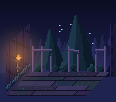
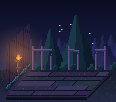
Balcony forest: ground around deck (no floating), deck thickness, right edge trunk line removed
Claude-Session: https://claude.ai/code/session_01FPZSaKiVNU2zED737yZX4w

diff --git a/tools/render_balcony_forest.py b/tools/render_balcony_forest.py
@@ -42,8 +42,6 @@ def main():
     for _ in range(12):                                                    # 덤불(울타리 뒤)
         cx = rng.randrange(int(X0 + SK * D), CW); cy = int(by) - rng.randrange(1, 7)
         leafy(lambda x, y, c: put(x, y, c) if y < by else None, cx, cy, rng.randrange(4, 7), rng, (12, 26, 38), (20, 44, 54), (32, 66, 74))
-    for cx in (CW - 6,):                                                   # 오른쪽 끝 활엽수 둥치
-        tdraw(put, cx, 8, 24, int(by) + 4, (28, 24, 54), (44, 38, 80), (18, 16, 36), rng, root=12)
     for _ in range(6):                                                     # 반딧불: 청록빛
         sx = rng.randrange(int(X0 + SK * D) + 6, CW - 16); sy = rng.randrange(24, int(top_rail) - 2)
         put(sx, sy, (170, 220, 230)); put(sx + 1, sy, (80, 120, 150))
@@ -62,6 +60,18 @@ def main():
         for x in range(xa, xb + 2):
             y = int(by - RAIL + 3 + (x - xa) * (1 if a == 4 else 0) // 6)
             put(x, y, WOODL); put(x, y + 1, WOOD)
+    # 땅: 숲 바닥이 지평선 아래 전체에 이어진다(판 아래·앞·오른쪽으로 계속): 흙 + 이끼 + 풀 + 가는 길
+    gr = random.Random(9)
+    for Y in range(int(by) - 2, CH):
+        t = (Y - by) / max(1, CH - by)
+        for X in range(CW):
+            base = (int(26 + 14 * t), int(30 + 14 * t), int(44 + 22 * t))
+            if gr.random() < .10: base = (base[0] - 5, base[1] + 5, base[2] - 4)
+            if gr.random() < .05: base = (base[0] + 8, base[1] + 8, base[2] + 12)
+            put(X, Y, base)
+    for _ in range(70):                                                 # 풀잎 무더기
+        gx, gy = gr.randrange(CW), gr.randrange(int(by), CH)
+        for k in range(gr.randrange(2, 5)): put(gx + k % 2, gy - k, (30, 62 - k * 4, 58))
     # 바닥: 썩은 널빤지(가로, 틈과 구멍) + 이끼·낙엽
     rows, d0 = [], 0.0
     while d0 < D: rows.append((d0, d0 + fr.uniform(6, 12))); d0 = rows[-1][1]
@@ -87,6 +97,12 @@ def main():
             for hx, hd, hw, hh in holes:                                   # 썩어 내려앉은 구멍
                 if hx <= x < hx + hw and hd <= d < hd + hh: c = (4, 4, 12)
             px[X, Y] = c + (255,)
+    for X in range(int(X0), int(X0 + W + SK * D) + 1):                  # 판의 두께(앞 가장자리 3칸)와 오른쪽 옆면
+        for k in range(3):
+            if px[X, int(Y0) + 1 + k][3] and int(Y0) + 1 + k < CH and X <= X0 + W: put(X, int(Y0) + 1 + k, (22 - k * 4, 18 - k * 3, 34 - k * 5))
+    for Y in range(int(Y0 - SS * D), int(Y0) + 1):
+        X = int(X0 + W + SK * (Y0 - Y) / SS) + 1
+        for k in range(2): put(X + k, Y + 1, (20, 18, 32))
     # 왼쪽 벽: 거대한 나무 둥치
     WH = RAIL + 24
     bark = lib['wall_forest_a']; barkb = lib['wall_base_forest_a']
